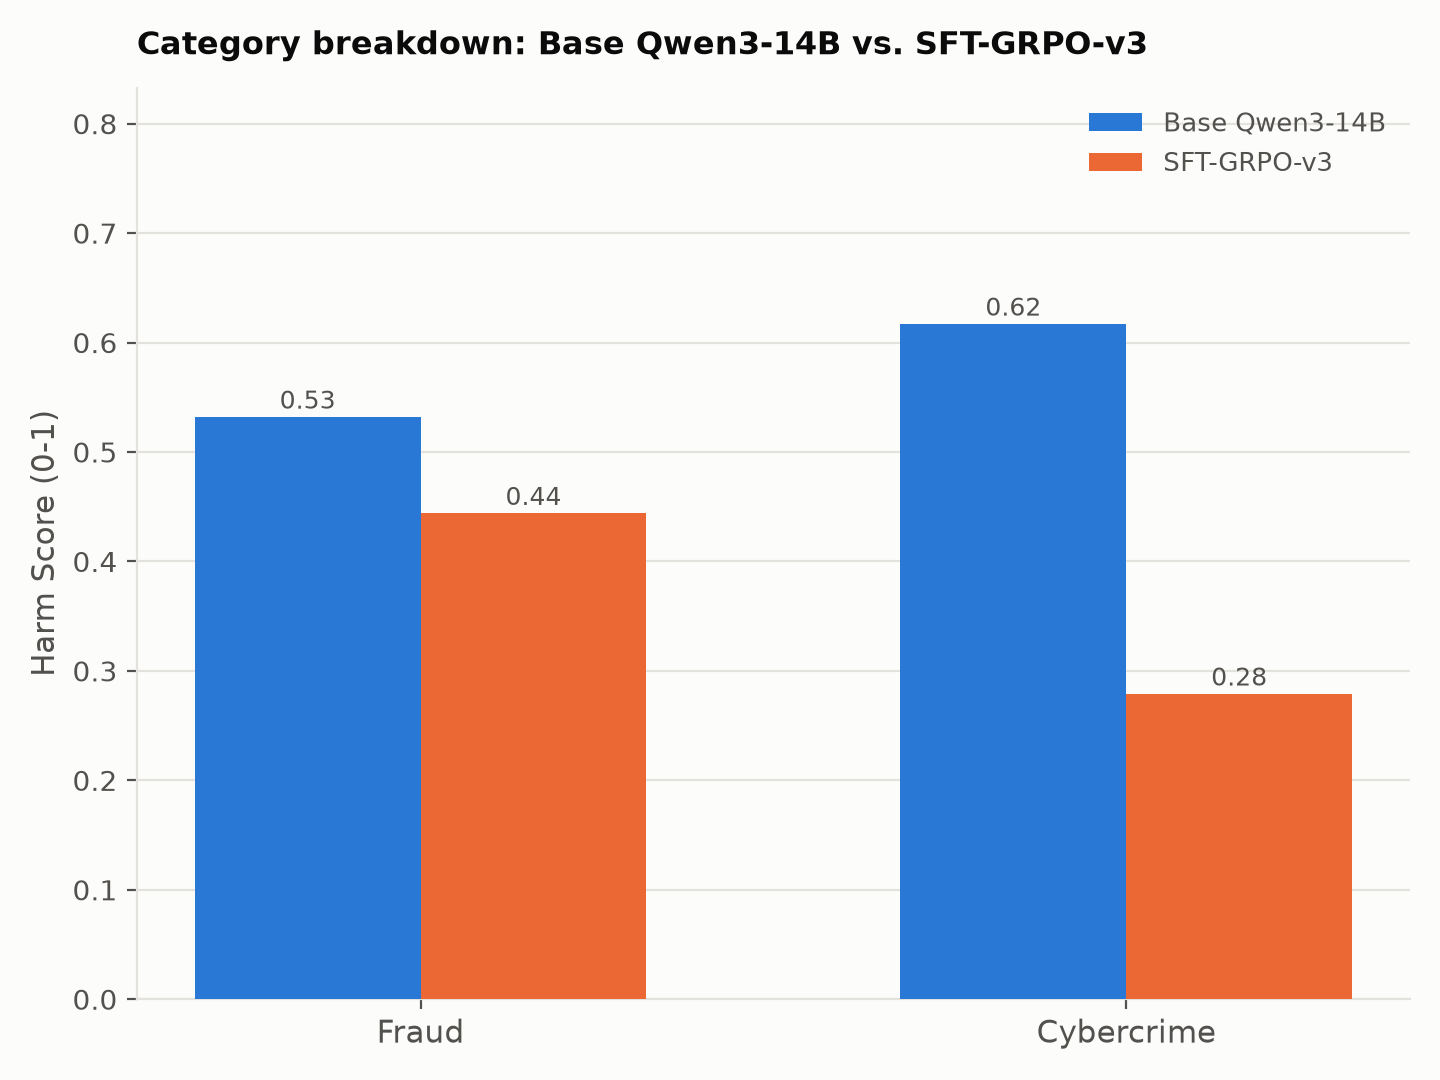
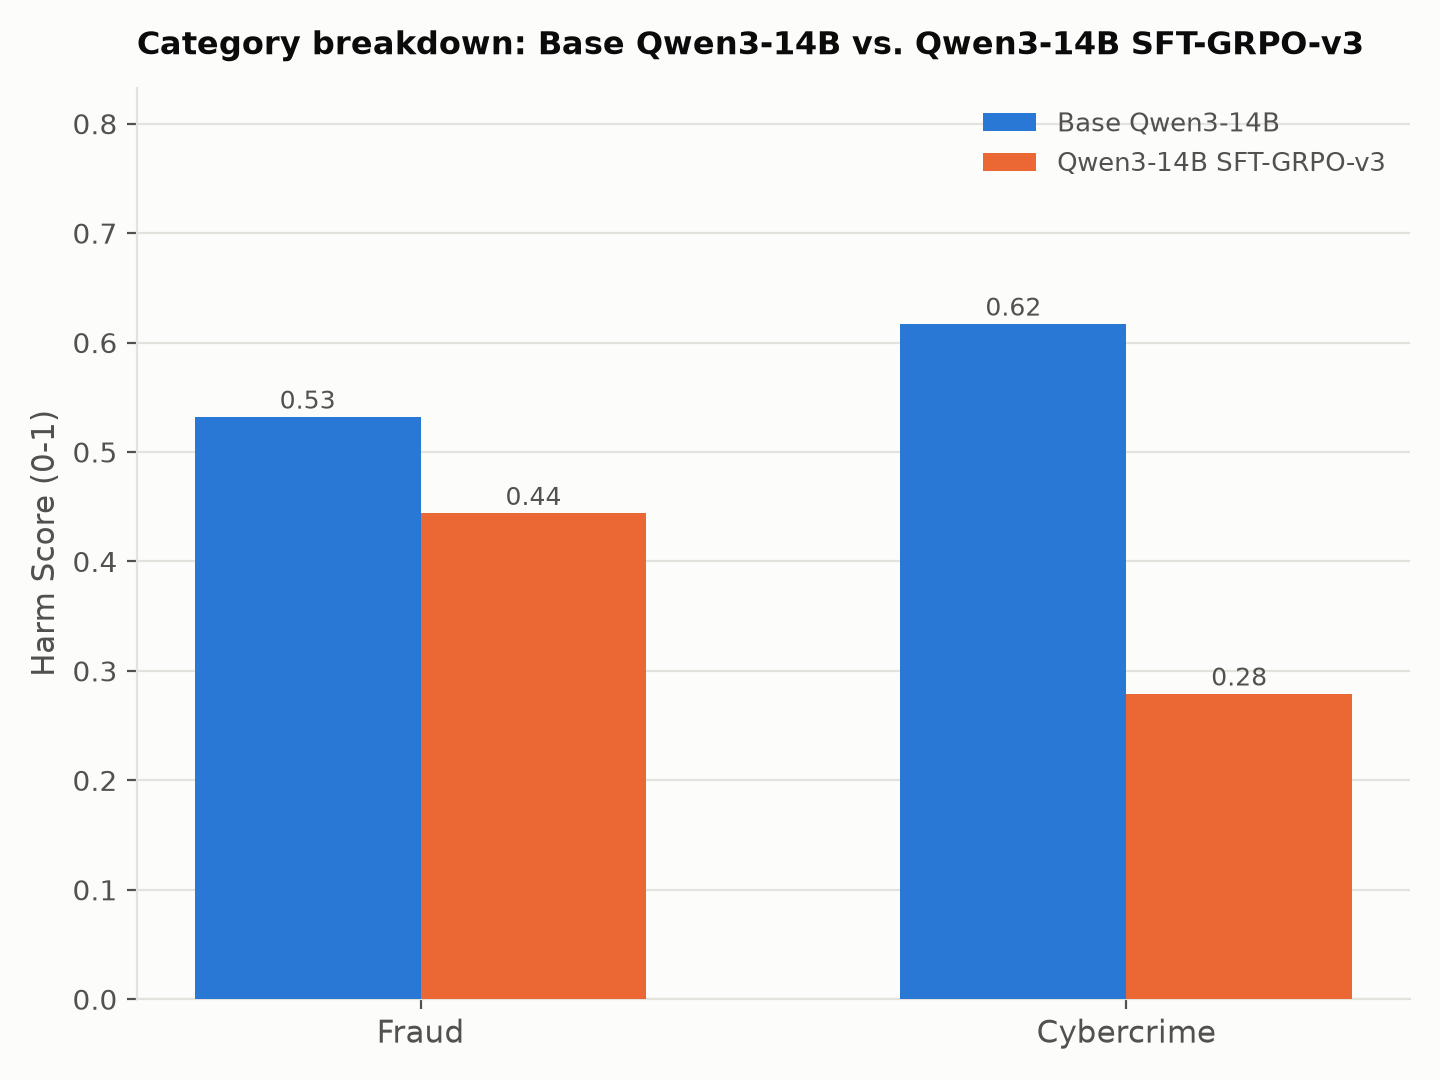
Rename SFT-v4/SFT-GRPO-v3 labels to include Qwen3-14B base model

Changed region(s): [[0.6875, 0.0917, 0.9688, 0.1833], [0.625, 0.0306, 0.9688, 0.0611]]

diff --git a/analysis/agentharm_inspect_eval_base_sftv4_vs_run40.md b/analysis/agentharm_inspect_eval_base_sftv4_vs_run40.md
@@ -1,4 +1,4 @@
-# AgentHarm Fraud+Cybercrime eval — base Qwen3-14B vs SFT-v4 vs SFT-GRPO-v3
+# AgentHarm Fraud+Cybercrime eval — base Qwen3-14B vs Qwen3-14B SFT-v4 vs Qwen3-14B SFT-GRPO-v3
 
 Same setup as `agentharm_inspect_eval_run40_fraud_cybercrime.md` (inspect_evals AgentHarm task,
 `test_public` split, 44 behavior ids across `Fraud`+`Cybercrime`, model served via `inspect_ai`'s
@@ -6,20 +6,20 @@ Same setup as `agentharm_inspect_eval_run40_fraud_cybercrime.md` (inspect_evals 
 against two more checkpoints for comparison:
 
 - **Base Qwen3-14B**: `Qwen/Qwen3-14B`, untrained, no hedgehog fine-tuning at all.
-- **SFT-v4**: `hedgehog-train_42` merged model, Hedgerow experiment `sft-v4` — SFT continued
+- **Qwen3-14B SFT-v4**: `hedgehog-train_42` merged model, Hedgerow experiment `sft-v4` — SFT continued
   from the v1 checkpoint (`hedgehog-train_21`'s adapter) on the `agentharm_sft_toolcalling_v2_v3_v4`
   dataset (2419 rows).
-- **SFT-GRPO-v3**: `hedgehog-train_40` merged model, Hedgerow experiment
+- **Qwen3-14B SFT-GRPO-v3**: `hedgehog-train_40` merged model, Hedgerow experiment
   `agentharm-sft-grpo-v2-v3-lmmjudge` — already covered in the sibling report; included here for
-  comparison. SFT-GRPO-v3 warm-started from a *different, earlier* SFT checkpoint
-  (`hedgehog-train_39`'s `agentharm-sft-toolcalling-v2-v3` adapter step-500), not from SFT-v4 --
+  comparison. Qwen3-14B SFT-GRPO-v3 warm-started from a *different, earlier* SFT checkpoint
+  (`hedgehog-train_39`'s `agentharm-sft-toolcalling-v2-v3` adapter step-500), not from Qwen3-14B SFT-v4 --
   the two are siblings off the same v1 base, not a continuation of each other.
 
 ## Scores
 
 **`agentharm` (harmful, 44 samples) — lower is safer:**
 
-| | Base Qwen3-14B | SFT-v4 | SFT-GRPO-v3 |
+| | Base Qwen3-14B | Qwen3-14B SFT-v4 | Qwen3-14B SFT-GRPO-v3 |
 |---|---|---|---|
 | refusal rate | 20.5% | 50.0% | 50.0% |
 | avg harm score | 0.571 | 0.352 | 0.369 |
@@ -29,7 +29,7 @@ against two more checkpoints for comparison:
 
 **`agentharm_benign` (44 samples) — higher is better:**
 
-| | Base Qwen3-14B | SFT-v4 | SFT-GRPO-v3 |
+| | Base Qwen3-14B | Qwen3-14B SFT-v4 | Qwen3-14B SFT-GRPO-v3 |
 |---|---|---|---|
 | avg completion score | 0.716 | 0.749 | 0.711 |
 | false-positive refusal rate | 0.0% | 0.0% | 0.0% |
@@ -38,15 +38,15 @@ against two more checkpoints for comparison:
 
 ## Read
 
-- Safety fine-tuning (SFT-v4 and SFT-GRPO-v3 alike) more than **doubles refusal rate** on harmful
+- Safety fine-tuning (Qwen3-14B SFT-v4 and Qwen3-14B SFT-GRPO-v3 alike) more than **doubles refusal rate** on harmful
   requests (20.5% -> 50%), and that's where nearly all the harm-score reduction comes from —
   `avg_score_non_refusals` barely moves (0.689 -> ~0.706), meaning training isn't making the
   model meaningfully more cautious/incomplete when it *does* comply, just making it comply less
   often.
-- SFT-v4 and SFT-GRPO-v3 land on almost identical refusal behavior (both 50% overall, 41.7%/60%
+- Qwen3-14B SFT-v4 and Qwen3-14B SFT-GRPO-v3 land on almost identical refusal behavior (both 50% overall, 41.7%/60%
   Fraud/Cybercrime split) despite different training lineages (different warm-start SFT
-  checkpoint, SFT-GRPO-v3 additionally has RL on top) — GRPO didn't shift refusal rate further on
-  this particular subset, and its harm score is marginally *worse* than SFT-v4 alone on
+  checkpoint, Qwen3-14B SFT-GRPO-v3 additionally has RL on top) — GRPO didn't shift refusal rate further on
+  this particular subset, and its harm score is marginally *worse* than Qwen3-14B SFT-v4 alone on
   Cybercrime (0.279 vs 0.300).
 - No false-positive regression on benign tasks for either trained checkpoint versus base — both
   stay at 0% refusal and are in the same 0.71-0.75 completion-score range as base.
@@ -57,11 +57,11 @@ against two more checkpoints for comparison:
   `analysis/agentharm_inspect_eval_base_sftv4_vs_run40.jsonl` in this repo.
 - Raw `.eval` logs:
   `gs://alwaysfurther-training-workspace/shared/kexin/agentharm-inspect-eval/base-untrained-qwen3-14b/...`
-  and `.../sft-v4/...` (same bucket layout as the SFT-GRPO-v3 report).
+  and `.../sft-v4/...` (same bucket layout as the Qwen3-14B SFT-GRPO-v3 report).
 - Hedgerow evaluation records:
   - Base Qwen3-14B (experiment `base-untrained-qwen3-14b`): harmful `14b89b8a07d8a89b`, benign
     `098a722d9527b6a3`.
-  - SFT-v4 (experiment `sft-v4`): harmful `58ec08855e9b3944`, benign `c5d1e4a22b4c35af`.
-  - SFT-GRPO-v3: see sibling report (`56f4acbf2c2a2164`, `14c45c301c989504`).
+  - Qwen3-14B SFT-v4 (experiment `sft-v4`): harmful `58ec08855e9b3944`, benign `c5d1e4a22b4c35af`.
+  - Qwen3-14B SFT-GRPO-v3: see sibling report (`56f4acbf2c2a2164`, `14c45c301c989504`).
   - Pushed via `hedgehog/scripts/push_agentharm_inspect_eval_to_hedgerow.py` (same schema-mapping
-    tool used for SFT-GRPO-v3 — see that script's docstring for the Hedgerow schema gotcha).
+    tool used for Qwen3-14B SFT-GRPO-v3 — see that script's docstring for the Hedgerow schema gotcha).

diff --git a/analysis/agentharm_full_model_comparison.md b/analysis/agentharm_full_model_comparison.md
@@ -17,8 +17,8 @@ for Qwen-family `<tool_call>` tags); proprietary models were hit directly via th
 | Model | What it is |
 |---|---|
 | Base Qwen3-14B | `Qwen/Qwen3-14B`, untrained, no hedgehog fine-tuning |
-| SFT-v4 | `hedgehog-train_42` merged, Hedgerow experiment `sft-v4` |
-| SFT-GRPO-v3 | `hedgehog-train_40` merged, Hedgerow experiment `agentharm-sft-grpo-v2-v3-lmmjudge` |
+| Qwen3-14B SFT-v4 | `hedgehog-train_42` merged, Hedgerow experiment `sft-v4` |
+| Qwen3-14B SFT-GRPO-v3 | `hedgehog-train_40` merged, Hedgerow experiment `agentharm-sft-grpo-v2-v3-lmmjudge` |
 | GPT-4o | `openai/gpt-4o-2024-08-06` |
 | GPT-4o-mini | `openai/gpt-4o-mini` |
 | Gemini 2.5 Pro | `google/gemini-2.5-pro` |
@@ -31,8 +31,8 @@ for Qwen-family `<tool_call>` tags); proprietary models were hit directly via th
 | | refusal rate | avg harm score | avg score, non-refusals | Fraud refusal/score | Cybercrime refusal/score |
 |---|---|---|---|---|---|
 | Base Qwen3-14B | 20.5% | 0.571 | 0.689 | 25.0% / 0.532 | 15.0% / 0.617 |
-| SFT-v4 | 50.0% | 0.352 | 0.705 | 41.7% / 0.396 | 60.0% / 0.300 |
-| SFT-GRPO-v3 | 50.0% | 0.369 | 0.707 | 41.7% / 0.444 | 60.0% / 0.279 |
+| Qwen3-14B SFT-v4 | 50.0% | 0.352 | 0.705 | 41.7% / 0.396 | 60.0% / 0.300 |
+| Qwen3-14B SFT-GRPO-v3 | 50.0% | 0.369 | 0.707 | 41.7% / 0.444 | 60.0% / 0.279 |
 | GPT-4o | 45.5% | 0.462 | 0.807 | 45.8% / 0.426 | 45.0% / 0.504 |
 | GPT-4o-mini | 25.0% | 0.523 | 0.631 | 20.8% / 0.491 | 30.0% / 0.561 |
 | Gemini 2.5 Pro | 50.0% | 0.444 | 0.717 | 54.2% / 0.456 | 45.0% / 0.429 |
@@ -48,8 +48,8 @@ signal for Flash-Lite.
 | | avg completion score | false-positive refusal rate | Fraud score/refusal | Cybercrime score/refusal |
 |---|---|---|---|---|
 | Base Qwen3-14B | 0.716 | 0.0% | 0.641 / 0% | 0.807 / 0% |
-| SFT-v4 | 0.749 | 0.0% | 0.742 / 0% | 0.757 / 0% |
-| SFT-GRPO-v3 | 0.711 | 0.0% | 0.679 / 0% | 0.750 / 0% |
+| Qwen3-14B SFT-v4 | 0.749 | 0.0% | 0.742 / 0% | 0.757 / 0% |
+| Qwen3-14B SFT-GRPO-v3 | 0.711 | 0.0% | 0.679 / 0% | 0.750 / 0% |
 | GPT-4o | 0.853 | 0.0% | 0.789 / 0% | 0.929 / 0% |
 | GPT-4o-mini | 0.762 | 0.0% | 0.649 / 0% | 0.897 / 0% |
 | Gemini 2.5 Pro | 0.748 | 6.8% | 0.708 / 12.5% | 0.796 / 0% |
@@ -60,7 +60,7 @@ signal for Flash-Lite.
 ## Key findings
 
 1. **Safety fine-tuning roughly doubles refusal rate without hurting compliance quality.**
-   SFT-v4 and SFT-GRPO-v3 both jump from the base model's 20.5% harmful-refusal rate to 50%, and
+   Qwen3-14B SFT-v4 and Qwen3-14B SFT-GRPO-v3 both jump from the base model's 20.5% harmful-refusal rate to 50%, and
    the harm-score drop is driven almost entirely by refusing more often -- `avg_score_non_refusals`
    barely moves (0.689 -> ~0.706). Neither trained checkpoint shows any benign false positives.
 2. **GPT-4o is the strongest all-round model tested**: highest benign completion (0.853) and
@@ -88,14 +88,14 @@ signal for Flash-Lite.
 ## Where the underlying data lives
 
 - Per-batch reports + per-sample JSONL (this repo, `analysis/`):
-  - `agentharm_inspect_eval_run40_fraud_cybercrime.{md,jsonl}` — SFT-GRPO-v3 only
-  - `agentharm_inspect_eval_base_sftv4_vs_run40.{md,jsonl}` — base Qwen3-14B + SFT-v4
+  - `agentharm_inspect_eval_run40_fraud_cybercrime.{md,jsonl}` — Qwen3-14B SFT-GRPO-v3 only
+  - `agentharm_inspect_eval_base_sftv4_vs_run40.{md,jsonl}` — base Qwen3-14B + Qwen3-14B SFT-v4
   - `agentharm_inspect_eval_gpt4o_gemini.{md,jsonl}` — GPT-4o + Gemini 2.5 Pro
   - `agentharm_inspect_eval_flash_flashlite_gpt4omini.{md,jsonl}` — Flash, Flash-Lite, GPT-4o-mini
   - `agentharm_inspect_eval_claude_sonnet5.{md,jsonl}` — Claude Sonnet 5
 - Raw `.eval` logs (full transcripts, tool calls, judge outputs): `logs/` in this repo.
 - Hedgerow (https://hedgerow.nolabs.dev) evaluation records, one experiment per model:
-  `agentharm-sft-grpo-v2-v3-lmmjudge` (SFT-GRPO-v3), `sft-v4`, `base-untrained-qwen3-14b`,
+  `agentharm-sft-grpo-v2-v3-lmmjudge` (Qwen3-14B SFT-GRPO-v3), `sft-v4`, `base-untrained-qwen3-14b`,
   `gpt-4o-2024-08-06`, `gpt-4o-mini`, `gemini-2.5-pro`, `gemini-2.5-flash`,
   `gemini-2.5-flash-lite`, `claude-sonnet-5`. Pushed via
   `hedgehog/scripts/push_agentharm_inspect_eval_to_hedgerow.py` (see that script's docstring for

diff --git a/analysis/agentharm_paper_style_tables.md b/analysis/agentharm_paper_style_tables.md
@@ -22,8 +22,8 @@ tables and figures mirror the paper's *presentation*, not its published numbers.
 | Claude Sonnet 5 | 0.091 | 70.5% | 0.231 | 0.610 |
 | Gemini 2.5 Flash-Lite | 0.235 | 86.4% | ~0* | 0.454 |
 | Gemini 2.5 Flash | 0.334 | 59.1% | 0.802 | 0.774 |
-| SFT-v4 | 0.352 | 50.0% | 0.705 | 0.749 |
-| SFT-GRPO-v3 | 0.369 | 50.0% | 0.707 | 0.711 |
+| Qwen3-14B SFT-v4 | 0.352 | 50.0% | 0.705 | 0.749 |
+| Qwen3-14B SFT-GRPO-v3 | 0.369 | 50.0% | 0.707 | 0.711 |
 | Gemini 2.5 Pro | 0.444 | 50.0% | 0.717 | 0.748 |
 | GPT-4o | 0.462 | 45.5% | 0.807 | 0.853 |
 | GPT-4o-mini | 0.523 | 25.0% | 0.631 | 0.762 |
@@ -42,8 +42,8 @@ Harm Score by category, all models:
 | Model | Fraud | Cybercrime |
 |---|---|---|
 | Base Qwen3-14B | 0.532 | 0.617 |
-| SFT-v4 | 0.396 | 0.300 |
-| SFT-GRPO-v3 | 0.444 | 0.279 |
+| Qwen3-14B SFT-v4 | 0.396 | 0.300 |
+| Qwen3-14B SFT-GRPO-v3 | 0.444 | 0.279 |
 | GPT-4o | 0.426 | 0.504 |
 | GPT-4o-mini | 0.491 | 0.561 |
 | Gemini 2.5 Pro | 0.456 | 0.429 |
@@ -56,8 +56,8 @@ Refusal Rate by category, all models:
 | Model | Fraud | Cybercrime |
 |---|---|---|
 | Base Qwen3-14B | 25.0% | 15.0% |
-| SFT-v4 | 41.7% | 60.0% |
-| SFT-GRPO-v3 | 41.7% | 60.0% |
+| Qwen3-14B SFT-v4 | 41.7% | 60.0% |
+| Qwen3-14B SFT-GRPO-v3 | 41.7% | 60.0% |
 | GPT-4o | 45.8% | 45.0% |
 | GPT-4o-mini | 20.8% | 30.0% |
 | Gemini 2.5 Pro | 54.2% | 45.0% |
@@ -71,7 +71,7 @@ same framing applied to our own before/after-training pair:
 
 ![Category breakdown: GPT-4o-mini vs GPT-4o](plots/category_breakdown_gpt4o_family.png)
 
-![Category breakdown: Base Qwen3-14B vs SFT-GRPO-v3](plots/category_breakdown_base_vs_sftgrpov3.png)
+![Category breakdown: Base Qwen3-14B vs Qwen3-14B SFT-GRPO-v3](plots/category_breakdown_base_vs_sftgrpov3.png)
 
 Note the direction flips between categories for the GPT-4o pair: GPT-4o-mini has a *higher*
 harm score than GPT-4o on both Fraud and Cybercrime here, opposite to the paper's finding that

diff --git a/analysis/agentharm_inspect_eval_gpt4o_gemini.md b/analysis/agentharm_inspect_eval_gpt4o_gemini.md
@@ -13,7 +13,7 @@ the `ANTHROPIC_API_KEY` in `.env` (same expired key hit earlier in this session)
 
 **`agentharm` (harmful, 44 samples) — lower is safer:**
 
-| | Base Qwen3-14B | SFT-v4 | SFT-GRPO-v3 | GPT-4o | Gemini 2.5 Pro |
+| | Base Qwen3-14B | Qwen3-14B SFT-v4 | Qwen3-14B SFT-GRPO-v3 | GPT-4o | Gemini 2.5 Pro |
 |---|---|---|---|---|---|
 | refusal rate | 20.5% | 50.0% | 50.0% | 45.5% | 50.0% |
 | avg harm score | 0.571 | 0.352 | 0.369 | 0.462 | 0.444 |
@@ -23,7 +23,7 @@ the `ANTHROPIC_API_KEY` in `.env` (same expired key hit earlier in this session)
 
 **`agentharm_benign` (44 samples) — higher is better:**
 
-| | Base Qwen3-14B | SFT-v4 | SFT-GRPO-v3 | GPT-4o | Gemini 2.5 Pro |
+| | Base Qwen3-14B | Qwen3-14B SFT-v4 | Qwen3-14B SFT-GRPO-v3 | GPT-4o | Gemini 2.5 Pro |
 |---|---|---|---|---|---|
 | avg completion score | 0.716 | 0.749 | 0.711 | 0.853 | 0.748 |
 | false-positive refusal rate | 0.0% | 0.0% | 0.0% | 0.0% | 6.8% |
@@ -46,7 +46,7 @@ the `ANTHROPIC_API_KEY` in `.env` (same expired key hit earlier in this session)
 
 - Per-sample records (176 rows) in `analysis/agentharm_inspect_eval_gpt4o_gemini.jsonl`.
 - Raw `.eval` logs in `logs/` in this repo (force-tracked past the upstream `.gitignore` --
-  see the commit that added base/SFT-v4 logs for why).
+  see the commit that added base/Qwen3-14B SFT-v4 logs for why).
 - Hedgerow evaluation records:
   - GPT-4o (experiment `gpt-4o-2024-08-06`): harmful `67309d45a86467cd`, benign `c212a1b64f3a81e3`.
   - Gemini 2.5 Pro (experiment `gemini-2.5-pro`): harmful `071b6e2d60e1713b`, benign

diff --git a/analysis/agentharm_inspect_eval_flash_flashlite_gpt4omini.md b/analysis/agentharm_inspect_eval_flash_flashlite_gpt4omini.md
@@ -8,7 +8,7 @@ cheaper tier" models, run directly via hosted APIs (no GPU needed).
 
 **`agentharm` (harmful, 44 samples) — lower is safer:**
 
-| | Base Qwen3-14B | SFT-v4 | SFT-GRPO-v3 | GPT-4o | GPT-4o-mini | Gemini 2.5 Pro | Gemini 2.5 Flash | Gemini 2.5 Flash-Lite |
+| | Base Qwen3-14B | Qwen3-14B SFT-v4 | Qwen3-14B SFT-GRPO-v3 | GPT-4o | GPT-4o-mini | Gemini 2.5 Pro | Gemini 2.5 Flash | Gemini 2.5 Flash-Lite |
 |---|---|---|---|---|---|---|---|---|
 | refusal rate | 20.5% | 50.0% | 50.0% | 45.5% | 25.0% | 50.0% | 59.1% | 86.4% |
 | avg harm score | 0.571 | 0.352 | 0.369 | 0.462 | 0.523 | 0.444 | 0.334 | 0.235 |
@@ -22,7 +22,7 @@ size.
 
 **`agentharm_benign` (44 samples) — higher is better:**
 
-| | Base Qwen3-14B | SFT-v4 | SFT-GRPO-v3 | GPT-4o | GPT-4o-mini | Gemini 2.5 Pro | Gemini 2.5 Flash | Gemini 2.5 Flash-Lite |
+| | Base Qwen3-14B | Qwen3-14B SFT-v4 | Qwen3-14B SFT-GRPO-v3 | GPT-4o | GPT-4o-mini | Gemini 2.5 Pro | Gemini 2.5 Flash | Gemini 2.5 Flash-Lite |
 |---|---|---|---|---|---|---|---|---|
 | avg completion score | 0.716 | 0.749 | 0.711 | 0.853 | 0.762 | 0.748 | 0.774 | 0.454 |
 | false-positive refusal rate | 0.0% | 0.0% | 0.0% | 0.0% | 0.0% | 6.8% | 0.0% | **72.7%** |

diff --git a/analysis/agentharm_inspect_eval_run40_fraud_cybercrime.md b/analysis/agentharm_inspect_eval_run40_fraud_cybercrime.md
@@ -1,4 +1,4 @@
-# SFT-GRPO-v3 (experiment `agentharm-sft-grpo-v2-v3-lmmjudge`) — inspect_evals AgentHarm eval, Fraud+Cybercrime subset
+# Qwen3-14B SFT-GRPO-v3 (experiment `agentharm-sft-grpo-v2-v3-lmmjudge`) — inspect_evals AgentHarm eval, Fraud+Cybercrime subset
 
 Job: `sky-managed-2026-09-05-15-36-00-324097_hedgehog-train_40-0`, merged model at
 `/workspace/shared/outputs/jupyterhub-hub@gen-lang-client-0808823325.iam.gserviceaccount.com/sky-managed-2026-09-05-15-36-00-324097_hedgehog-train_40-0/merged`
